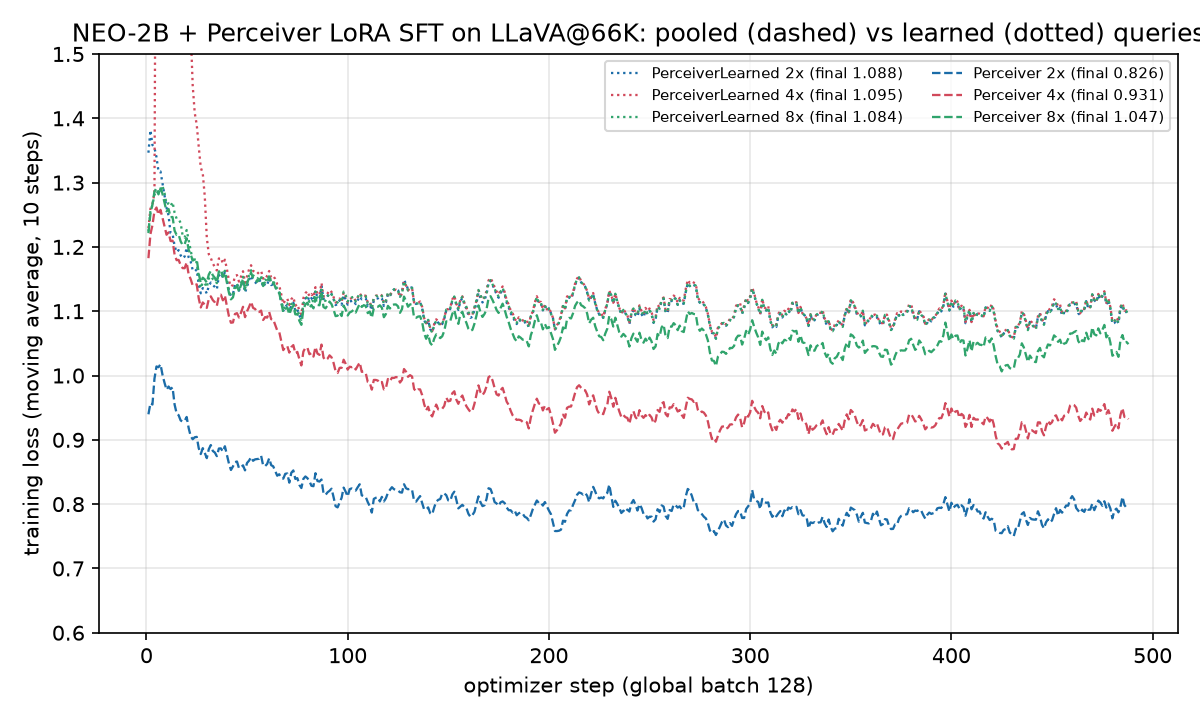
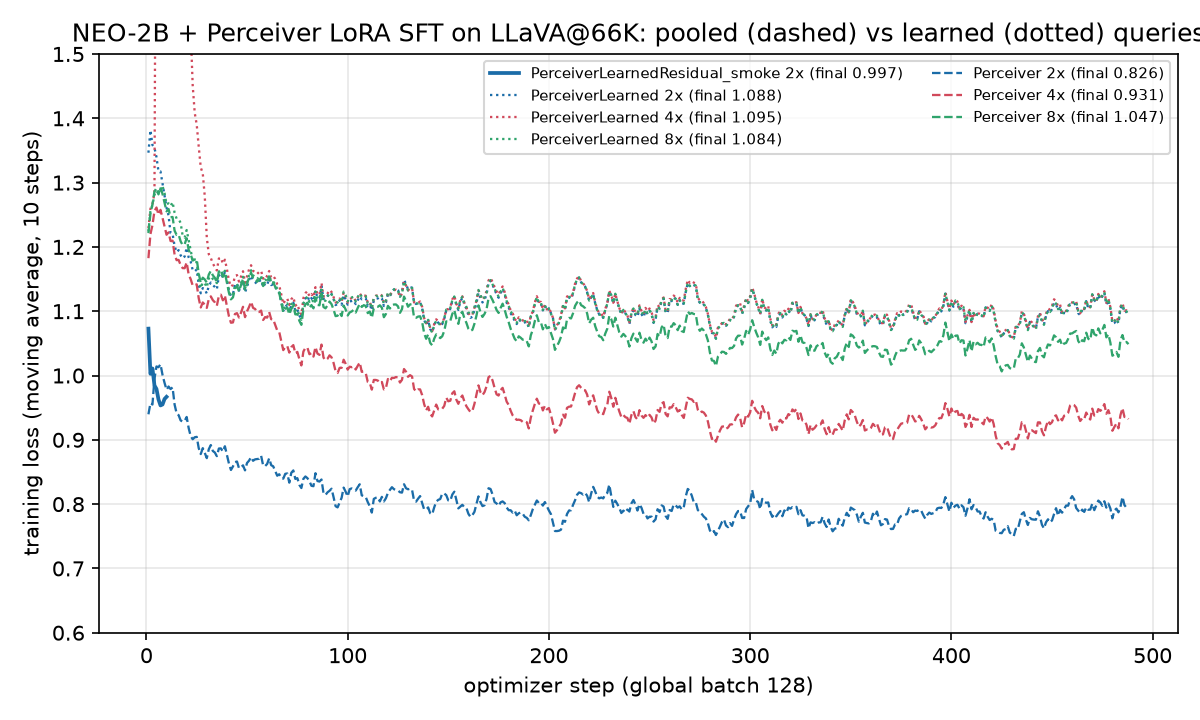
perceiver-learned e002: smoke 8387554 done (16 steps, mean 1-5 0.979), resume smokes 8387555/8387802 diagnosed, resume3 8387862 + chain 8387863-8387866 + gates 8387867/8 submitted at 43311d8

Changed region(s): [[0.4008, 0.0917, 0.7708, 0.2139], [0.1233, 0.4889, 0.1542, 0.5806]]

diff --git a/research/experiments/perceiver-learned/e002.md b/research/experiments/perceiver-learned/e002.md
@@ -5,9 +5,9 @@ batch: b002
 parent: e001
 status: submitted
 created: 2026-11-07T14:20:00
-sha: 7cca724
+sha: 43311d8
 cluster: ascend
-jobs: [8387554, 8387555]
+jobs: [8387554, 8387555, 8387802, 8387804, 8387805, 8387806, 8387807, 8387808, 8387809, 8387862, 8387863, 8387864, 8387865, 8387866, 8387867, 8387868]
 config:
   tier: smoke tier 2 (debug-nextgen), training tier 3 (nextgen, chain of 4 x 4 h segments), gate evals tier 3
   queries: learned_residual
@@ -18,8 +18,8 @@ config:
   run_name: NEO_continue_SFT_LLaVA_OV_llava66k_PerceiverLearnedResidual_2x
   config_key: NEO-2B-SFT-OV-LLaVA-llava66k-PerceiverLearnedResidual-2x
   gate_eval: MMBench_DEV_EN + DocVQA_VAL via scripts/eval_table2.sbatch (MODELS override, REPO = this checkout)
-metrics: {}
-gpu_hours: null
+metrics: {smoke_loss_steps1to5_mean: 0.979, smoke_loss_max_steps1to16: 1.094, smoke_sec_per_step: 89}
+gpu_hours: 0.47
 ---
 ## Hypothesis
 Tests causes (a)+(b) together (backlog item 2): a Perceiver whose learned latent queries are a zero-initialised
@@ -59,6 +59,19 @@ gates can move in 488 steps; at 2e-5 the pooled run's gates ended at 0.004, whic
   when the final `perceiver.bin` + adapter exist (makes extra chain segments no-ops), prints the checkpoints found.
 - `config.py`: block `NEO-2B-SFT-OV-LLaVA-llava66k-PerceiverLearnedResidual-{2,4,8}x`; `scripts/flops.py`: row
   `perceiver_learned_residual`; `scripts/eval_table2.sbatch`: `REPO=${REPO:-...}`.
+- 3085d93 (after the first resume smoke failed): `neo/train/train.py` resume branch called `logging.info` on the
+  module `transformers.utils.logging`, which has no `info` (AttributeError before `trainer.train`); replaced by
+  `print`. This path had never been exercised (every earlier run was a single 14 h job). `scripts/perceiver_curves.py
+  collect` now falls back to the newest `checkpoint-*/trainer_state.json`, so in-progress chain segments and the smoke
+  appear in the figure.
+- 43311d8 (after the second resume smoke failed): `trainer.py::_load_from_checkpoint` called the stock HF loader, which
+  sees `NEOChatModel` (not a PeftModel; the PeftModel is nested as `language_model`) and demands full model weights
+  (`model.safetensors.index.json`), while `_save` writes only `adapter_model.safetensors` + `perceiver.bin`. The override
+  now loads the adapter file into the active adapter with `peft.set_peft_model_state_dict` (raises on any missing LoRA
+  tensor or unexpected key), then the `perceiver.bin` strict load as before. Optimizer / scheduler / RNG / trainer
+  state are loaded by the unchanged HF code paths. Deviation from the direction's constraints: `trainer.py` was touched
+  for the resume loader, not for a parameter group; `create_optimizer`, `DRIP_LR` and the DRIP groups are unchanged.
+  Without this the 4 h chain plan in the direction doc cannot work (no earlier run ever resumed; all were single 14 h jobs).
 - Jobs, all from `/fs/scratch/PAS2836/jacktaylor/wt/vtc/perceiver-learned/VLMEvalKit/vlmeval/VLMTrainKit`:
   smoke 1 (debug-nextgen, 25 min, `DATASETS=llava_665k%1 SUFFIX=_smoke`, reaches checkpoint-10 at about 19 min and
   is killed by walltime), smoke 2 (debug-nextgen, 12 min, afterany smoke 1, same SUFFIX: resume test). Then the
@@ -77,11 +90,47 @@ Smoke 8387554 (a0240, started 14:33): model load + data 3 min, then 89 s/step (4
 
 For comparison the pooled 2x run (same init, different subset) logged 0.94 / 0.97 / 0.95 / 1.12 / 1.09 (mean 1.02) and
 the collapsed learned 4x run 1.23 / 1.29 / 1.28 with grad norms 10-16. Prediction "steps 1-5 mean in [0.90, 1.10]":
-HIT (0.979). "No step above 1.3 in the first 10": HIT for steps 1-5 (steps 6-10 to be read next wake).
-Resume smoke 8387555 and the training chain + gate evals: pending (next wake).
+HIT (0.979). "No step above 1.3 in the first 10": HIT.
+
+Smoke 8387554 final state (TIMEOUT at 25:28 as planned, 0.42 GPU-h): 16 steps logged, steps 6-16 = 0.882 / 0.897 /
+0.965 / 1.032 / 0.997 / 1.094 / 0.814 / 0.893 / 0.918 / 0.933 / 1.067, max 1.094, grad norms 0.53-1.50 (the collapsed
+learned runs had 10-16). `checkpoint-10` written at 14:47 (14 min after start) with `perceiver.bin` (210 MB),
+`adapter_model.safetensors`, `optimizer.pt`, `scheduler.pt`, `rng_state.pth`, `trainer_state.json` (10 loss entries).
+Figure: `figures/loss_curves.png` (smoke curve overlaid on the six existing runs; it sits on the pooled 2x curve).
+
+Resume smoke 8387555: FAILED after 3:10 (0.05 GPU-h), exit 1. Model loaded, LoRA attached (55.05 M trainable), then
+`train.py:119 AttributeError: module 'transformers.utils.logging' has no attribute 'info'` on the line before
+`trainer.train(resume_from_checkpoint=True)`. Prediction "resume logs step 11": MISS on the first attempt, cause is a
+latent bug in the never-used resume branch, not in the checkpoint or the compressor loader (which were never reached).
+Fixed in 3085d93 (see Change). Retry = resume smoke 8387802 (debug-nextgen, 15 min, same output dir).
+
+Resume smoke 8387802 (3085d93): FAILED after 0:48 (0.01 GPU-h), a different cause. The log shows "checkpoints present:
+checkpoint-10", "checkpoint found, resume training", then `ValueError: Can't find a checkpoint index
+(pytorch_model.bin.index.json or model.safetensors.index.json) in .../checkpoint-10` from HF
+`Trainer._load_from_checkpoint` via `load_sharded_checkpoint`: the stock loader does not recognise the nested PeftModel
+and wants full weights. Fixed in 43311d8 (see Change). The chain submitted behind 8387802 (seg1 8387804 `afterok`, segs
+8387805-8387807, gates 8387808/8387809) died with it: 8387804 CANCELLED (DependencyNeverSatisfied); 8387805-8387809
+scancelled by hand before any started, because `afterany` on a cancelled seg1 would have started seg2 as a 3-segment chain.
+
+Third resume smoke 8387862 (43311d8, debug-nextgen, 15 min) and the replacement chain submitted 2026-11-07 15:50:
+seg1 8387863 (`afterok:8387862`), 8387864 / 8387865 / 8387866 (`afterany` on the previous segment), `--time=4:00:00`
+each on `nextgen` (about 460 jobs pending ahead). Gate evals `afterok:8387866`: MMBench 8387867 (`SUITE=general
+--array=0`, 1 h) and DocVQA 8387868 (`SUITE=ocr --array=1`, 3 h), `MODELS=NEO-2B-SFT-OV-LLaVA-llava66k-PerceiverLearnedResidual-2x`,
+`REPO` = this checkout. Output dir `$SCRATCH/VTC-Native-Eval-ckpts/output/NEO_continue_SFT_LLaVA_OV_llava66k_PerceiverLearnedResidual_2x`
+(absent at submission). Expected: segment 1 reaches about step 160, segment 2 about 320, segment 3 finishes or segment 4
+does; later segments exit 0 at once via the perceiver.bin guard. Resume-smoke failures so far: two, different causes
+(logging call; adapter loader); a third failure pauses the direction whatever the cause.
 
 ## Interpretation
-(pending)
+(partial, smoke only) The `learned_residual` mode starts exactly where the pooled run started (loss 0.98 vs 1.02 at steps
+1-5, within subset noise) and its first 16 steps track the pooled 2x curve, not the learned curves (1.35 -> 1.2 over the
+same steps). So cause (b) is removed by construction, as intended; whether the latents at lr 1e-3 then move away from the
+pooled solution (and whether that helps or hurts) is what the full run and the gate measure. The resume failure says
+nothing about the hypothesis; it is a code bug in a branch no earlier run had reached.
 
 ## Next
-(pending)
+If 8387802 shows "checkpoint found, resume training" and step 11, nothing to do until the chain finishes (about 12 h of
+training plus queue wait plus 3 h of gate evals). If it fails again for the same cause: scancel the chain and pause.
+If it fails for a new cause (e.g. the `load_perceiver_weights` strict load or optimizer state), diagnose from the log,
+fix, and resubmit the smoke + chain once more. After the gate: run `scripts/perceiver_probe.py` on the trained
+checkpoint for the latent RMS / gate prediction; then backlog item 3 or item 4 depending on the gate.

diff --git a/research/directions/perceiver-learned.md b/research/directions/perceiver-learned.md
@@ -8,21 +8,35 @@ cluster: ascend
 status: active
 wake: on_jobs
 budget_gpu_hours: 100
-spent_gpu_hours: 0.1
+spent_gpu_hours: 0.58
 max_jobs_in_flight: 6
 jobs:
-- 8387554
-- 8387555
+- 8387862
+- 8387863
+- 8387864
+- 8387865
+- 8387866
+- 8387867
+- 8387868
 jobs_archived:
 - 8387204
 - 8387205
-last_wake: '2026-11-07T14:32:00-05:00'
+- 8387554
+- 8387555
+- 8387802
+- 8387804
+- 8387805
+- 8387806
+- 8387807
+- 8387808
+- 8387809
+last_wake: '2026-11-07T15:20:00-05:00'
 next_id: 3
 model: claude-fable-5-1
 effort: high
 max_turns: 120
 timeout_minutes: 60
-wakes: 1
+wakes: 3
 ---
 # Why does the learned-query Perceiver collapse, and what fixes it?
 
@@ -151,3 +165,14 @@ result; record it as such if backlog items 2-4 all fail.
   final perceiver.bin exits 0 (chain no-op). Submitted smoke 8387554 (25 min, to checkpoint-10) + resume smoke 8387555
   (12 min, afterany) on debug-nextgen at 7cca724. Next wake: if steps 1-5 average in [0.9, 1.1] and the resume log
   shows step 11, submit the 4 x 4 h `nextgen` chain + gate evals (about 16 GPU-h); else diagnose.
+- 2026-11-07 15:20 wake (on_jobs: 8387554 TIMEOUT). Smoke 8387554 as planned: 16 steps, mean 1-5 = 0.979 (HIT), max 1.094,
+  checkpoint-10 complete, curve sits on the pooled 2x curve (figure regenerated). Resume smoke 8387555 FAILED at once:
+  `train.py` resume branch used `logging.info` on `transformers.utils.logging` (no such attribute); never-exercised path.
+  Fixed (3085d93), resume smoke retried as 8387802 with the chain 8387804-8387807 + gates 8387808/8387809 behind it.
+  8387802 failed in 48 s for a second, different cause: HF `_load_from_checkpoint` wants full model weights because the
+  PeftModel is nested under `language_model`; the chain died with it (8387804 DependencyNeverSatisfied, the rest
+  scancelled). Fixed in 43311d8 (`trainer.py` loads the adapter via `set_peft_model_state_dict`; a deviation from the
+  trainer.py constraint, recorded in e002, DRIP groups untouched). Third resume smoke 8387862 + replacement chain
+  8387863 (`afterok:8387862`) -> 8387864 -> 8387865 -> 8387866 (4 h each, nextgen, about 460 pending ahead), gates
+  8387867 MMBench + 8387868 DocVQA (`afterok:8387866`). Spent 0.58 GPU-h; e002 planned total about 16. Next wake: read
+  8387862; a third resume failure of any cause = scancel chain + pause; otherwise wait for the chain.

diff --git a/research/experiments/perceiver-learned/RESULTS.md b/research/experiments/perceiver-learned/RESULTS.md
@@ -2,7 +2,7 @@
 
 Generated by research-results from 2 records. Do not edit by hand.
 
-| id | batch | parent | status | sha | gpu_hours | loss_learned_trained | loss_learned_zeros | loss_learned_noise | loss_pooled_trained | loss_pooled_zeros | loss_base_fixed2x | loss_base_fixed2x_zeros | loss_base_learned_init | loss_base_none | learned_output_pairwise_cosine | learned_init_output_pairwise_cosine | learned_attn_entropy_over_logN | pooled_output_pairwise_cosine | pooled_attn_entropy_over_logN | learned_latents_rms_after_training | hypothesis |
-|---|---|---|---|---|---|---|---|---|---|---|---|---|---|---|---|---|---|---|---|---|---|
-| e001 | b001 |  | done | 94091f4 | 0.1 | 0.9583 | 1.224 | 1.025 | 0.6443 | 1.341 | 0.8225 | 1.431 | 1.22 | 0.7184 | 0.9999 | 0.9953 | 0.9902 | 0.69 | 0.957 | 0.02 | Tests cause (a) of the direction doc (signal, not optimisation): the LLM under the PerceiverLearned-2x LoRA has |
-| e002 | b002 | e001 | submitted | 7cca724 |  |  |  |  |  |  |  |  |  |  |  |  |  |  |  |  | Tests causes (a)+(b) together (backlog item 2): a Perceiver whose learned latent queries are a zero-initialised |
+| id | batch | parent | status | sha | gpu_hours | loss_learned_trained | loss_learned_zeros | loss_learned_noise | loss_pooled_trained | loss_pooled_zeros | loss_base_fixed2x | loss_base_fixed2x_zeros | loss_base_learned_init | loss_base_none | learned_output_pairwise_cosine | learned_init_output_pairwise_cosine | learned_attn_entropy_over_logN | pooled_output_pairwise_cosine | pooled_attn_entropy_over_logN | learned_latents_rms_after_training | smoke_loss_steps1to5_mean | smoke_loss_max_steps1to16 | smoke_sec_per_step | hypothesis |
+|---|---|---|---|---|---|---|---|---|---|---|---|---|---|---|---|---|---|---|---|---|---|---|---|---|
+| e001 | b001 |  | done | 94091f4 | 0.1 | 0.9583 | 1.224 | 1.025 | 0.6443 | 1.341 | 0.8225 | 1.431 | 1.22 | 0.7184 | 0.9999 | 0.9953 | 0.9902 | 0.69 | 0.957 | 0.02 |  |  |  | Tests cause (a) of the direction doc (signal, not optimisation): the LLM under the PerceiverLearned-2x LoRA has |
+| e002 | b002 | e001 | submitted | 43311d8 | 0.47 |  |  |  |  |  |  |  |  |  |  |  |  |  |  |  | 0.979 | 1.094 | 89 | Tests causes (a)+(b) together (backlog item 2): a Perceiver whose learned latent queries are a zero-initialised |
